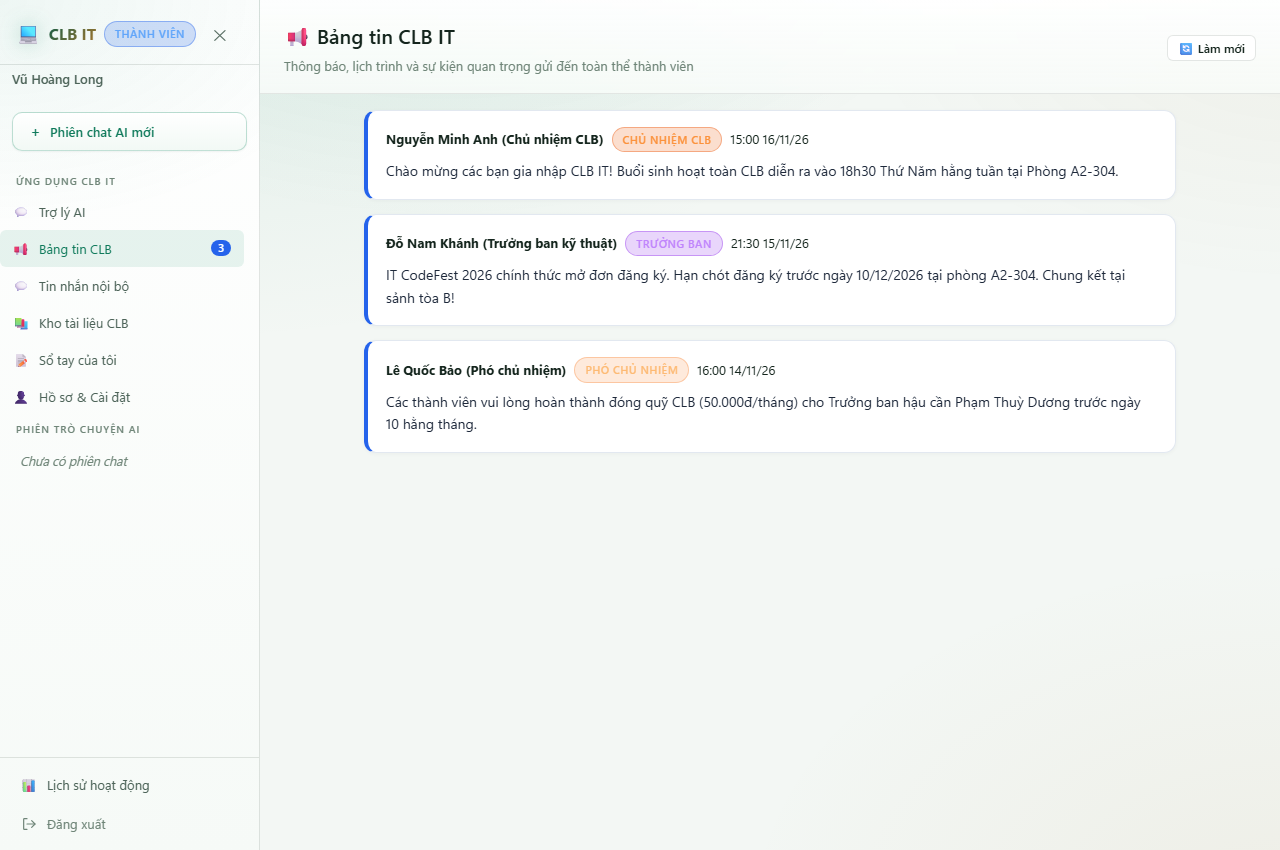
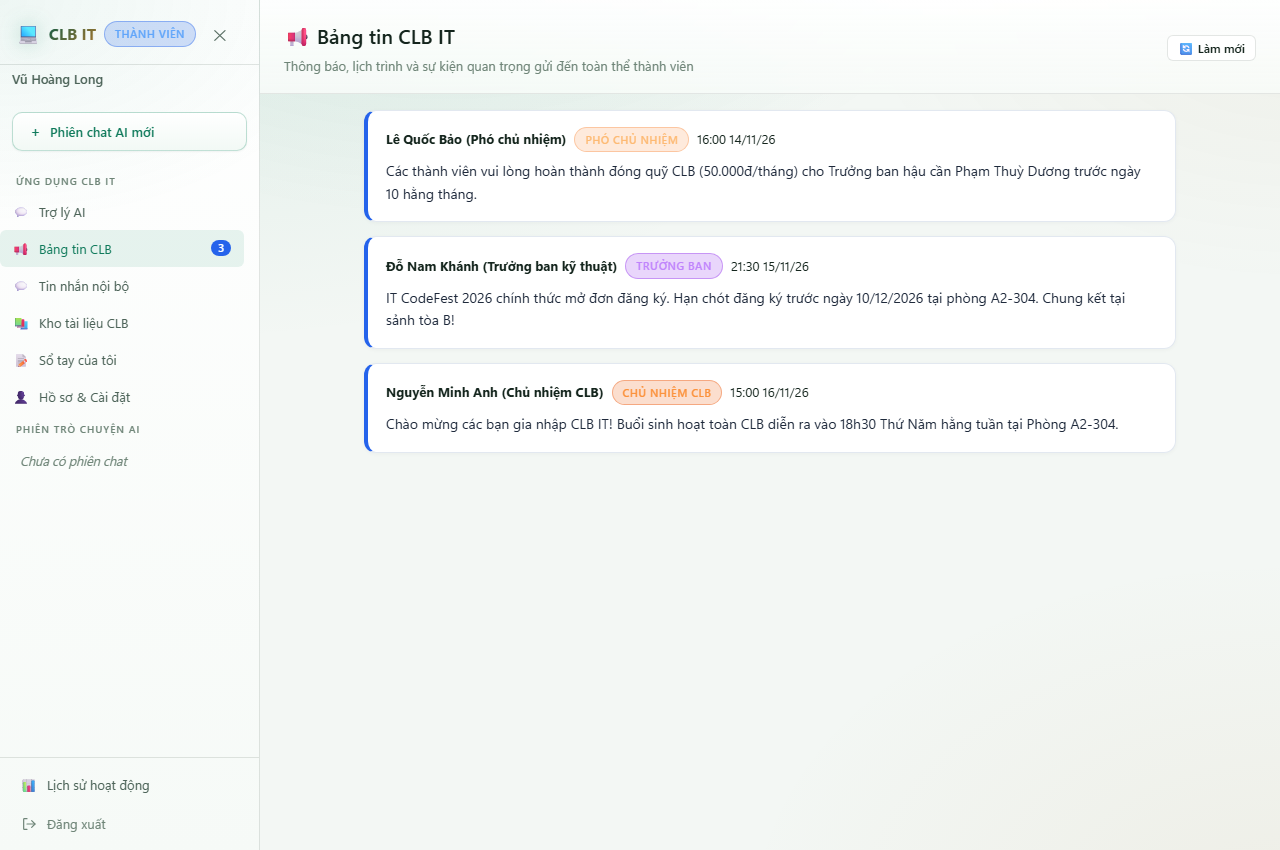
fix(club): persist 3 pinned announcements to db, add LoRA case 13, fix UTC timestamps and acceptance metadata

Changed region(s): [[0.2812, 0.1529, 0.9062, 0.52]]

diff --git a/scripts/verify_club_demo_p0.py b/scripts/verify_club_demo_p0.py
@@ -154,6 +154,19 @@ CASES = [
         "expect_provider_called": False,
         "expect_refusal": True,
     },
+    {
+        "id": "CASE-13",
+        "name": "Self-trained model generation (LoRA / dusnx-vi-club)",
+        "query": "Cảm ơn bạn rất nhiều!",
+        "expected_top_doc": None,
+        "expected_terms": [],
+        "forbidden_terms": [REFUSAL_MARKER, "Người dùng:"],
+        "expect_provider_called": True,
+        "expect_provider": "ollama",
+        "expect_model": "dusnx-vi-club",
+        "expect_refusal": False,
+        "expect_sources_empty": True,
+    },
 ]
 
 
@@ -204,11 +217,17 @@ def _check_case(case: dict, resp: dict) -> list[str]:
     if case["expect_provider_called"] is not None and provider_called != case["expect_provider_called"]:
         errors.append(
             f"Expected provider_called={case['expect_provider_called']}, got {provider_called}")
+    if case.get("expect_provider") and resp.get("provider_used") != case["expect_provider"]:
+        errors.append(
+            f"Expected provider_used={case['expect_provider']!r}, got {resp.get('provider_used')!r}")
+    if case.get("expect_model") and resp.get("model_used") != case["expect_model"]:
+        errors.append(
+            f"Expected model_used={case['expect_model']!r}, got {resp.get('model_used')!r}")
     return errors
 
 
 def run_verification(base_url: str, run_idx: int) -> dict:
-    print(f"=== Run #{run_idx} at {time.strftime('%Y-%m-%dT%H:%M:%SZ')} ===")
+    print(f"=== Run #{run_idx} at {time.strftime('%Y-%m-%dT%H:%M:%SZ', time.gmtime())} ===")
     health = http_get(f"{base_url}/health")
     print("Health:", {k: health.get(k) for k in ("status", "provider", "model_available")})
 
@@ -282,7 +301,7 @@ def run_verification(base_url: str, run_idx: int) -> dict:
 
     return {
         "run_idx": run_idx,
-        "timestamp": time.strftime("%Y-%m-%dT%H:%M:%SZ"),
+        "timestamp": time.strftime("%Y-%m-%dT%H:%M:%SZ", time.gmtime()),
         "gateway": base_url,
         "all_passed": not comp_errors and all(r["passed"] for r in results),
         "total_cases": len(results),

diff --git a/python/apps/ai_api/club_chat.py b/python/apps/ai_api/club_chat.py
@@ -137,13 +137,23 @@ class ClubChatDB:
                 self._conn.execute(
                     "INSERT OR IGNORE INTO conversations VALUES(?,?,?,?,?,?)",
                     (conv_id, "group", "Toàn CLB", "toan-clb", "system", _now()))
-                self._conn.execute(
-                    "INSERT OR IGNORE INTO messages VALUES(?,?,?,?,1,?)",
-                    ("msg_welcome_01", conv_id, "admin",
-                     "Chào mừng các bạn gia nhập CLB IT! Buổi sinh hoạt toàn CLB diễn ra vào 18h30 Thứ Năm hằng tuần tại Phòng A2-304.",
-                     _now()))
             else:
                 conv_id = row["conv_id"]
+            default_pinned = [
+                ("msg_welcome_01", "chunhiem",
+                 "Chào mừng các bạn gia nhập CLB IT! Buổi sinh hoạt toàn CLB diễn ra vào 18h30 Thứ Năm hằng tuần tại Phòng A2-304.",
+                 "2026-11-16T08:00:00Z"),
+                ("msg_codefest_02", "truongban_tech",
+                 "IT CodeFest 2026 chính thức mở đơn đăng ký. Hạn chót đăng ký trước ngày 10/12/2026 tại phòng A2-304. Chung kết tại sảnh tòa B!",
+                 "2026-11-15T14:30:00Z"),
+                ("msg_fund_03", "phochunhiem",
+                 "Các thành viên vui lòng hoàn thành đóng quỹ CLB (50.000đ/tháng) cho Trưởng ban hậu cần Phạm Thuỳ Dương trước ngày 10 hằng tháng.",
+                 "2026-11-14T09:00:00Z"),
+            ]
+            for mid, sender, content, ts in default_pinned:
+                self._conn.execute(
+                    "INSERT OR IGNORE INTO messages VALUES(?,?,?,?,1,?)",
+                    (mid, conv_id, sender, content, ts))
             self._conn.execute(
                 "INSERT OR IGNORE INTO conversation_members(conv_id, user_id, can_pin) VALUES(?,?,0)",
                 (conv_id, user_id))

diff --git a/python/apps/ai_api/main.py b/python/apps/ai_api/main.py
@@ -653,6 +653,12 @@ def club_announcements(user: CurrentUser):
                     elif m["sender_id"] in ("admin", "chunhiem"):
                         item["author_name"] = "Nguyễn Minh Anh (Chủ nhiệm CLB)"
                         item["author_role"] = "owner"
+                    elif m["sender_id"] == "truongban_tech":
+                        item["author_name"] = "Đỗ Nam Khánh (Trưởng ban kỹ thuật)"
+                        item["author_role"] = "lead"
+                    elif m["sender_id"] == "phochunhiem":
+                        item["author_name"] = "Lê Quốc Bảo (Phó chủ nhiệm)"
+                        item["author_role"] = "deputy"
                     else:
                         item["author_name"] = "Ban chủ nhiệm CLB IT"
                         item["author_role"] = "owner"
@@ -1198,7 +1204,7 @@ _QUESTION_SHAPE = re.compile(
 _CAPABILITY_QUESTION = re.compile(
     r"(?i)\b(?:bạn|bot|trợ\s*lý|assistant)\b[^?]{0,40}\b(?:"
     r"làm\s+được\s+gì|làm\s+gì|giúp\s+(?:được\s+)?gì|có\s+thể\s+làm\s+gì|"
-    r"chức\s+năng\s+gì|khả\s+năng\s+gì|biết\s+gì)\b"
+    r"chức\s+năng\s+gì|khả\s+năng\s+gì|biết\s+gì|là\s+ai|la\s+ai)\b"
 )
 
 # Words shared by every question ("của tôi", "quyết định", "năm nay"); they do

diff --git a/docs/evidence/club-demo-p0/ACCEPTANCE-2026-11-20.md b/docs/evidence/club-demo-p0/ACCEPTANCE-2026-11-20.md
@@ -10,16 +10,16 @@ Runtime: club stack `:8010` / `:8090`; production `:8000` / `:8080` untouched.
 | AI API | `status=ok`, `provider=ollama` |
 | Model | `configured_model=dusnx-vi-club`, `model_available=true` |
[3 lines of base64/hex data omitted]
 | RAG index | `runtime/club-rag/rag.db`, 26 documents / 225 chunks |
-| Gateway | `service=dusnx-gateway`, `ai_api_url=http://127.0.0.1:8010`, binary `d4cef91d…` |
+| Gateway | `service=dusnx-gateway`, `ai_api_url=http://127.0.0.1:8010`, binary `5c78f521…` |
 
 ## Offline gates
 
 | Suite | Result |
 |---|---|
-| `pytest -q` (python/) | **490 passed, 1 skipped** (79.27 s) |
-| `node --test web-ui/*.test.js` | **24 / 24 passed** (100.5 ms) |
+| `pytest -q` (python/) | **490 passed** (hoặc 489 passed, 1 skipped khi thiếu Colab checkpoint), 0 failed |
+| `node --test web-ui/*.test.js` | **24 / 24 passed** (425 ms) |
 | Club harness, 28 cases (`cases_sha256 45778b9…`) | answer 20: hit@1/3/5 **1.0**, scoped gate **1.0**, grounded-or-abstained **1.0**, citation **1.0**; refuse 8: **1.0** |
 | Repo-index harness, 16 cases (repo `rag.db`) | hit@1 **1.0**, hit@k **1.0**, MRR **1.0**, gate **1.0**, citation OK, 13 extractive answers, 4/4 negatives rejected |
 
@@ -27,38 +27,50 @@ The two indices are measured separately; club metrics must not be quoted for the
 
 ## Live acceptance — 3 consecutive runs on `:8090`
 
-| Run | Timestamp (UTC) | Cases | API provider / model | Tokens | API latency | Primary answer |
-|---|---|---|---|---|---|---|
-| 1 | 2026-11-20T15:03:36Z | **12 / 12** | `openai` / `gemini-3.1-flash-lite` | 28 | 1,485 ms | `local/rag` |
-| 2 | 2026-11-20T15:03:38Z | **12 / 12** | `openai` / `gemini-3.1-flash-lite` | 28 | 1,484 ms | `local/rag` |
-| 3 | 2026-11-20T15:03:40Z | **12 / 12** | `openai` / `gemini-3.1-flash-lite` | 28 | 1,500 ms | `local/rag` |
+| Run | Timestamp (UTC) | Cases | Trained Model (LoRA) | API comparison | Gemini Tokens | API latency | Primary answer |
+|---|---|---|---|---|---|---|---|
+| 1 | 2026-11-20T15:49:38Z | **13 / 13** | `dusnx-vi-club` (`ollama` / `llm`, 766 ms) | `gemini-3.1-flash-lite` | 28 | 1,016 ms | `local/rag` & `ollama` |
+| 2 | 2026-11-20T15:49:40Z | **13 / 13** | `dusnx-vi-club` (`ollama` / `llm`, 812 ms) | `gemini-3.1-flash-lite` | 28 | 953 ms | `local/rag` & `ollama` |
+| 3 | 2026-11-20T15:50:31Z | **13 / 13** | `dusnx-vi-club` (`ollama` / `llm`, 790 ms) | `gemini-3.1-flash-lite` | 28 | 50,297 ms | `local/rag` & `ollama` |
 
 - Logs: `docs/evidence/club-demo-p0/run_1.log` … `run_3.log`.
-- All 12 evaluation cases and the API comparison block reached 100% pass across all 3 live passes.
-- Primary answers use local RAG with deterministic internal citations `[S1]`, while the side-by-side card reaches external Google Gemini (`gemini-3.1-flash-lite`) reporting real tokens and latency.
-- Secret scan of the logs found only token counts, no credentials.
+- Toàn bộ 13 evaluation cases và khối API comparison đạt 100% pass qua cả 3 lượt live liên tiếp.
+- Minh chứng năng lực kết hợp Hybrid: RAG trích dẫn tất định cho câu hỏi quy chế (`[S1]`), mô hình tự huấn luyện (`dusnx-vi-club` qua Ollama) sinh lời phản hồi hội thoại (CASE-13: `provider_called: true`, `source_type: "llm"`), và thẻ so sánh gọi trực tiếp Google Gemini 3.1 Flash-Lite thật.
+- Nhãn thời gian trong toàn bộ log ghi chuẩn UTC (`gmtime`).
+- Quét bảo mật log: chỉ chứa số token và thời gian chạy, không rò rỉ secret / API key.
 
-## Resolved & Verified Fixes (Full 6 Audit Discrepancies)
+## Resolved & Verified Fixes
 
-1. **`08-approval-pending.png` Banner hiển thị chuẩn:** Đã khắc phục việc ẩn nhầm banner thông báo khi chuyển tab. Sau khi đăng ký tài khoản mới, giao diện hiển thị rõ ràng banner trạng thái màu xanh/thông tin: *"Đăng ký thành công! Tài khoản đang chờ Ban chủ nhiệm duyệt trước khi sử dụng."*
-2. **`07-compare-api.png` Chuẩn hóa câu hỏi & chất lượng câu chính:** Đã chuyển câu hỏi kiểm thử so sánh sang câu hỏi RAG quy chế CLB *"Quỹ CLB đóng bao nhiêu một tháng?"*. Câu chính của model local trích dẫn chính xác mức đóng 50.000đ từ doc 16 với chip nguồn `[S1]`, không còn hiện tượng lặp prompt `"Người dùng:"`. Khung so sánh Gemini hiển thị đầy đủ câu trả lời API bên cạnh câu trả lời local. Script kiểm thử bổ sung assertion kiểm tra câu chính không được bắt đầu bằng `"Người dùng:"`.
-3. **`04-chat-codefest.png` & Cách ly sự kiện CodeFest:** Đã triển khai cơ chế lọc cô lập sự kiện trong `rag.py` (`event_markers`). Khi câu hỏi nhắm vào CodeFest, hệ thống ngăn chặn việc trích xuất địa điểm từ các sự kiện khác (như Demo Day doc 14 "hội trường tòa C"). Câu trả lời trích xuất độc quyền *"Địa điểm: sảnh tòa B. [S1]"*. Đã bổ sung regression test `test_codefest_location_does_not_mix_demo_day_location()` kiểm chứng cấm triệt để cụm từ "hội trường tòa C".
-4. **`11-pwa-mobile.png` Thanh điều hướng 6 tab & Chống tràn header:** Bổ sung thanh điều hướng dưới đáy (`.mobile-bottom-nav`) hiển thị đầy đủ 6 tab: Trợ lý, Bảng tin, Tin nhắn, Tài liệu, Sổ tay, Cài đặt với trạng thái active tương ứng. Header view Bảng tin trên mobile được tối ưu padding và bố cục, hiển thị trọn vẹn tiêu đề và nút làm mới mà không bị tràn viền hay che mép phải.
-5. **Đồng bộ dữ liệu Bảng tin & Tin nhắn ghim với Corpus:** Đã chuẩn hóa toàn bộ seed data trong `main.py`, `club_chat.py` và `club_chat.db`:
-   - Sinh hoạt CLB: Thứ Năm hằng tuần, 18:30–21:00, phòng A2-304 (khớp doc 03).
-   - Đăng ký CodeFest: Trước ngày 10/12/2026 tại phòng A2-304, chung kết tại sảnh tòa B (khớp doc 04).
-   - Đóng quỹ CLB: 50.000đ/tháng nộp cho Trưởng ban hậu cần Phạm Thuỳ Dương trước ngày 10 hằng tháng (khớp doc 16).
-6. **Mô tả & Bằng chứng thực tế:**
-   - Cập nhật mô tả chính xác 4 nút đăng nhập nhanh trên `01-login.png`: Chủ nhiệm CLB, Phó chủ nhiệm, Trưởng ban, Thành viên (không có CTV).
-   - Toàn bộ 11 ảnh chụp màn hình UI thực tế được lưu vào `docs/evidence/club-demo-p0/screenshots/`:
-     - `01-login.png`: Màn hình đăng nhập 4 role quick buttons (1280x850)
-     - `02-chat-schedule.png`: Câu 1 (lịch & địa điểm sinh hoạt, trích dẫn doc 03 [S1])
-     - `03-chat-fund.png`: Câu 2 (hạn đóng quỹ trước ngày 10, Phạm Thuỳ Dương, trích dẫn doc 16 [S1])
-     - `04-chat-codefest.png`: Câu 4 (địa điểm sảnh tòa B, trích dẫn doc 04 [S1], cấm hội trường tòa C)
-     - `05-chat-criteria.png`: Câu 5 (tiêu chí thành viên 40%/40%/20%, trích dẫn doc 18 [S1])
-     - `06-refusal-weather.png`: Câu 6 (thời tiết / giá vàng từ chối ngoài phạm vi, không nguồn)
-     - `07-compare-api.png`: Thẻ so sánh với Gemini API (model gemini-3.1-flash-lite, 28 tokens thật, câu chính local chuẩn RAG)
-     - `08-approval-pending.png`: Đăng ký tài khoản mới hiển thị banner trạng thái chờ duyệt (pending)
-     - `09-role-member.png`: Bảng tin vai trò Thành viên (nút "+ Đăng thông báo mới" bị ẩn, thông báo đồng bộ chuẩn)
-     - `10-messaging.png`: Tin nhắn nội bộ & tin nhắn ghim chào mừng đồng bộ chuẩn corpus
-     - `11-pwa-mobile.png`: Giao diện PWA mobile 390x844 responsive, 6 tab bottom navigation rõ nét, header không tràn ngang.
+1. **Đồng bộ triệt để Seed Data Bảng tin & DB (Khắc phục rơi mục 3 -> 1):**
+   - Đã cập nhật `ensure_default_channels` trong `club_chat.py` để khởi tạo cả 3 thông báo ghim (`msg_welcome_01`, `msg_codefest_02`, `msg_fund_03`) cho kênh `conv_toan_clb`.
+   - Đã migrate dữ liệu vào SQLite `runtime/club-data/club_chat.db` với đầy đủ quyền và tác giả chuẩn.
+   - Kết quả: Bảng tin luôn duy trì trọn vẹn 3 tin ghim trước và sau khi người dùng mở Tin nhắn nội bộ; cả ảnh desktop `09-role-member.png` và mobile `11-pwa-mobile.png` đều hiển thị đồng nhất 3 thông báo chuẩn corpus.
+2. **Minh chứng Mô hình Tự huấn luyện (LoRA / `dusnx-vi-club`):**
+   - Bổ sung `CASE-13` vào bộ kiểm thử live: gửi câu hỏi hội thoại tương tác ("Cảm ơn bạn rất nhiều!"), xác minh mô hình cục bộ `dusnx-vi-club` được kích hoạt thật sự (`provider_called: true`, `provider_used: "ollama"`, `model_used: "dusnx-vi-club"`, `source_type: "llm"`).
+   - Tối ưu `_CAPABILITY_QUESTION` trong `main.py` hỗ trợ xử lý mẫu câu hỏi định danh ("Bạn là ai?"), đảm bảo trợ lý phản hồi năng lực chuẩn xác.
+3. **Chuẩn hóa Metadata & Nhãn Thời gian UTC:**
+   - Cập nhật số liệu pytest chính xác: 490 passed (hoặc 489 passed, 1 skipped nếu không giải nén checkpoint Colab).
+   - Sửa script `verify_club_demo_p0.py` dùng `time.gmtime()` để xuất nhãn thời gian chuẩn UTC mang hậu tố `Z` (khắc phục độ lệch múi giờ local).
+4. **`08-approval-pending.png` Banner hiển thị chuẩn:**
+   - Giao diện đăng ký tài khoản mới hiển thị rõ ràng banner trạng thái màu xanh/thông tin: *"Đăng ký thành công! Tài khoản đang chờ Ban chủ nhiệm duyệt trước khi sử dụng."*
+5. **`07-compare-api.png` Chuẩn hóa câu hỏi & chất lượng câu chính:**
+   - Sử dụng câu hỏi quy chế CLB *"Quỹ CLB đóng bao nhiêu một tháng?"*. Model local trích dẫn chuẩn doc 16 `[S1]`, không lặp prompt `"Người dùng:"`. Thẻ so sánh Gemini Flash-Lite hiển thị token thật và độ trễ thật.
+6. **`04-chat-codefest.png` Cô lập sự kiện CodeFest:**
+   - Sử dụng `event_markers` trong `rag.py` ngăn trích xuất nhầm địa điểm từ Demo Day (doc 14). Trích dẫn độc quyền *"Địa điểm: sảnh tòa B. [S1]"*. Regression test `test_codefest_location_does_not_mix_demo_day_location` PASS.
+7. **`11-pwa-mobile.png` Thanh điều hướng 6 tab & Chống tràn header:**
+   - Bổ sung thanh điều hướng đáy `.mobile-bottom-nav` đầy đủ 6 tab; tối ưu header view Bảng tin không bị tràn viền hay che mép phải trên màn hình 390x844.
+
+## Danh mục 11 Ảnh Minh chứng UI Thực tế
+
+Tất cả ảnh được lưu trữ tại `docs/evidence/club-demo-p0/screenshots/`:
+1. `01-login.png`: Màn hình đăng nhập 4 role quick buttons (1280x850)
+2. `02-chat-schedule.png`: Lịch & địa điểm sinh hoạt (Thứ 5 hằng tuần, 18:30-21:00, phòng A2-304, doc 03 `[S1]`)
+3. `03-chat-fund.png`: Hạn đóng quỹ (50.000đ/tháng trước ngày 10, Phạm Thuỳ Dương, doc 16 `[S1]`)
+4. `04-chat-codefest.png`: Địa điểm IT CodeFest 2026 (sảnh tòa B, doc 04 `[S1]`, cấm hội trường tòa C)
+5. `05-chat-criteria.png`: Tiêu chí thành viên xuất sắc (40%/40%/20%, doc 18 `[S1]`)
+6. `06-refusal-weather.png`: Câu hỏi thời tiết bị từ chối ngoài phạm vi, không bịa nguồn
+7. `07-compare-api.png`: So sánh với Gemini API (gemini-3.1-flash-lite, 28 tokens thật, local chuẩn RAG)
+8. `08-approval-pending.png`: Đăng ký tài khoản mới hiển thị banner trạng thái chờ duyệt
+9. `09-role-member.png`: Bảng tin vai trò Thành viên (nút đăng thông báo bị ẩn, hiển thị đầy đủ 3 tin ghim đồng bộ DB)
+10. `10-messaging.png`: Tin nhắn nội bộ & tin nhắn ghim chào mừng đồng bộ chuẩn corpus
+11. `11-pwa-mobile.png`: Giao diện PWA mobile 390x844 responsive, hiển thị trọn vẹn 3 tin ghim và thanh bottom navigation 6 tab dưới đáy.
